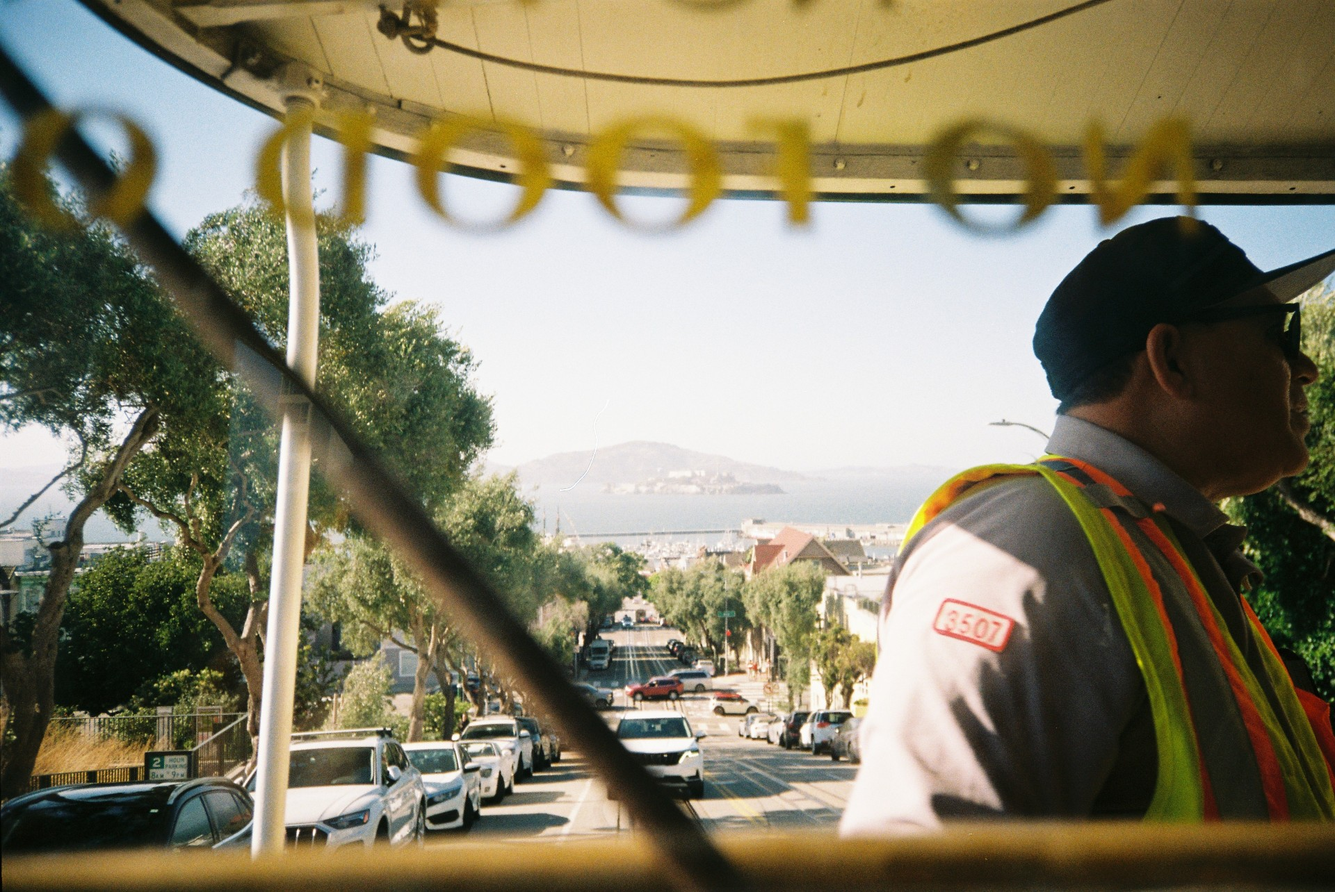
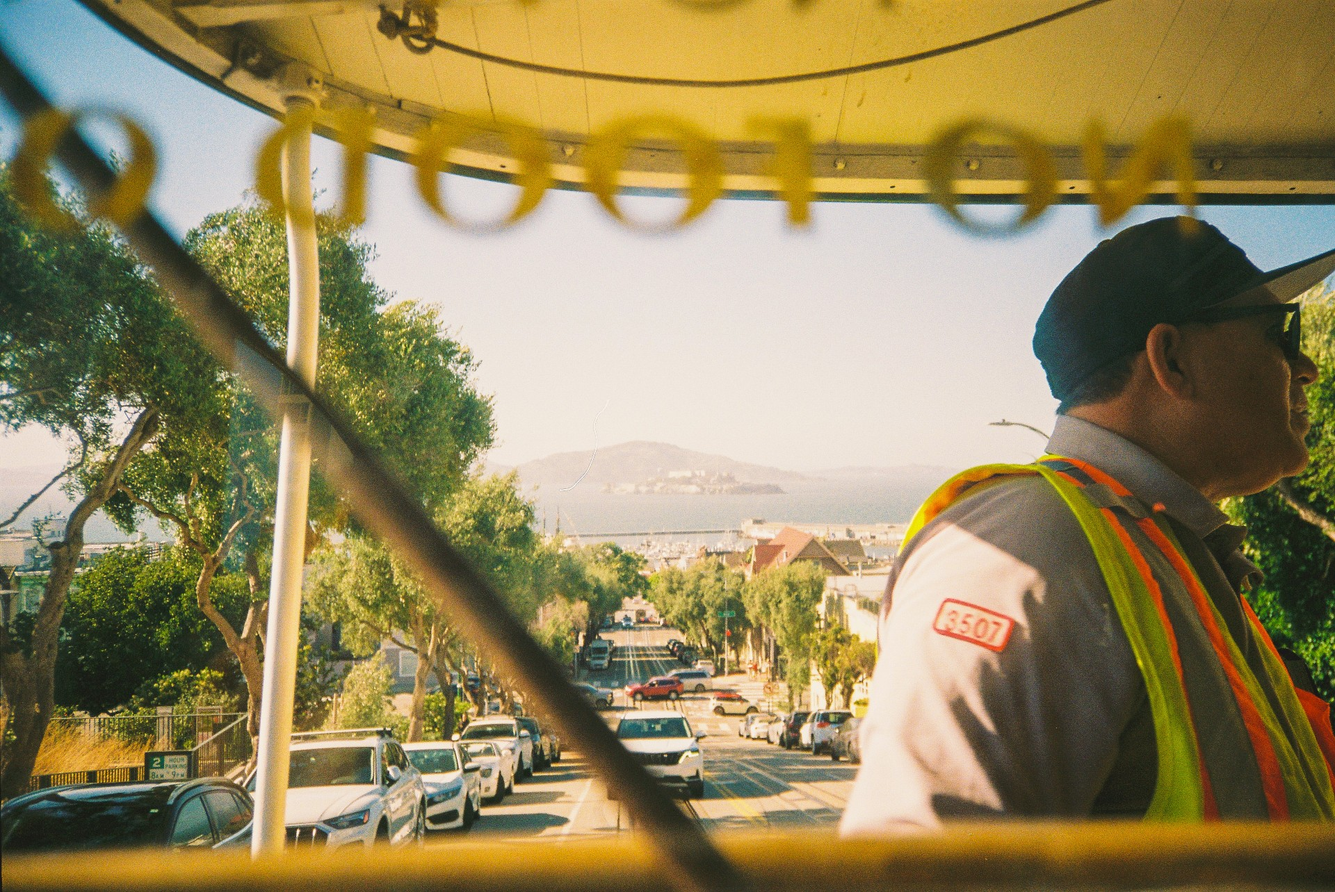
Push to Main
Push Pictures for 2nd post

diff --git a/projects/photography/city-street-walk/index.html b/projects/photography/city-street-walk/index.html
@@ -3,7 +3,7 @@
 <head>
   <meta charset="utf-8" />
   <meta name="viewport" content="width=device-width, initial-scale=1" />
-  <title>City Street Walk — Photography</title>
+  <title>The Golden City — Photography</title>
   <link href="https://cdn.jsdelivr.net/npm/bootstrap@5.3.0/dist/css/bootstrap.min.css" rel="stylesheet" />
   <link href="https://fonts.googleapis.com/css2?family=Syne:wght@800&family=Inter:wght@400;600;700;800&display=swap" rel="stylesheet" />
   <link rel="stylesheet" href="https://cdnjs.cloudflare.com/ajax/libs/font-awesome/6.4.0/css/all.min.css" />
@@ -13,22 +13,27 @@
 </head>
 <body>
   <header class="py-3 px-3 px-lg-4">
-    <div class="container d-flex justify-content-end align-items-center">
+    <div class="container d-flex justify-content-between align-items-center">
       <div class="text-light-custom fw-bold">Tristen</div>
+      <a href="#" class="btn btn-outline-light btn-sm d-flex align-items-center gap-2" target="_blank" rel="noopener">
+        <i class="fas fa-music"></i>
+        <span>Featured Track</span>
+      </a>
     </div>
   </header>
 
   <main class="container py-4 py-lg-5">
     <section class="bg-dark-custom rounded-4 p-3 p-lg-5 mb-4" data-aos="fade-up">
       <div class="d-flex justify-content-between align-items-center gap-3">
-        <h1 class="display-5 text-light-custom mb-2 mb-lg-0">City Street Walk</h1>
+        <h1 class="display-5 text-light-custom mb-2 mb-lg-0">The Golden City</h1>
         <a href="../../../portfolio.html" class="btn btn-back">Back to Portfolio</a>
       </div>
-      <p class="text-secondary mb-3">Photography • 2025 • Downtown</p>
+      <p class="text-secondary mb-3">Photography • 2025 • San Fransisco, CA</p>
       <div class="row g-3 text-light-custom">
         <div class="col-md-6">
           <p class="mb-1"><strong>Role:</strong> Photographer</p>
-          <p class="mb-1"><strong>Camera:</strong> 35mm • 35mm f/2 • HP5+ 400</p>
+          <p class="mb-1"><strong>Camera:</strong> Minolta Freedom 70EX </p>
+          <p class="mb-1"><strong>Film:</strong> Kodak Gold 200 </p>
         </div>
         <div class="col-md-6">
           <p class="mb-1"><strong>Summary:</strong> A candid street collection exploring light, movement, and everyday narratives.</p>
@@ -47,6 +52,36 @@
         </div>
         <div class="col-6 col-lg-4">
           <a href="../../../images/projects/city-street-walk/003.jpg" class="image-link d-block"><img src="../../../images/projects/city-street-walk/003.jpg" class="img-fluid rounded-4" alt="Street 3"></a>
+        </div>
+        <div class="col-6 col-lg-4">
+          <a href="../../../images/projects/city-street-walk/004.jpg" class="image-link d-block"><img src="../../../images/projects/city-street-walk/004.jpg" class="img-fluid rounded-4" alt="Street 4"></a>
+        </div>
+        <div class="col-6 col-lg-4">
+          <a href="../../../images/projects/city-street-walk/005.jpg" class="image-link d-block"><img src="../../../images/projects/city-street-walk/005.jpg" class="img-fluid rounded-4" alt="Street 5"></a>
+        </div>
+        <div class="col-6 col-lg-4">
+          <a href="../../../images/projects/city-street-walk/006.jpg" class="image-link d-block"><img src="../../../images/projects/city-street-walk/006.jpg" class="img-fluid rounded-4" alt="Street 6"></a>
+        </div>
+        <div class="col-6 col-lg-4">
+          <a href="../../../images/projects/city-street-walk/007.jpg" class="image-link d-block"><img src="../../../images/projects/city-street-walk/007.jpg" class="img-fluid rounded-4" alt="Street 7"></a>
+        </div>
+        <div class="col-6 col-lg-4">
+          <a href="../../../images/projects/city-street-walk/008.jpg" class="image-link d-block"><img src="../../../images/projects/city-street-walk/008.jpg" class="img-fluid rounded-4" alt="Street 8"></a>
+        </div>
+        <div class="col-6 col-lg-4">
+          <a href="../../../images/projects/city-street-walk/009.jpg" class="image-link d-block"><img src="../../../images/projects/city-street-walk/009.jpg" class="img-fluid rounded-4" alt="Street 9"></a>
+        </div>
+        <div class="col-6 col-lg-4">
+          <a href="../../../images/projects/city-street-walk/010.jpg" class="image-link d-block"><img src="../../../images/projects/city-street-walk/010.jpg" class="img-fluid rounded-4" alt="Street 10"></a>
+        </div>
+        <div class="col-6 col-lg-4">
+          <a href="../../../images/projects/city-street-walk/011.jpg" class="image-link d-block"><img src="../../../images/projects/city-street-walk/011.jpg" class="img-fluid rounded-4" alt="Street 11"></a>
+        </div>
+        <div class="col-6 col-lg-4">
+          <a href="../../../images/projects/city-street-walk/012.jpg" class="image-link d-block"><img src="../../../images/projects/city-street-walk/012.jpg" class="img-fluid rounded-4" alt="Street 12"></a>
+        </div>
+        <div class="col-6 col-lg-4">
+          <a href="../../../images/projects/city-street-walk/013.jpg" class="image-link d-block"><img src="../../../images/projects/city-street-walk/013.jpg" class="img-fluid rounded-4" alt="Street 13"></a>
         </div>
       </div>
     </section>

diff --git a/index.html b/index.html
@@ -786,10 +786,10 @@
           <div class="swiper-slide">
             <a class="card card-custom text-decoration-none" href="projects/photography/city-street-walk/index.html">
               <span class="chip">Photography</span>
-              <img src="images/portfolio-thumb-2.jpg" class="img-fluid" alt="City Street Walk" />
+              <img src="images/portfolio-thumb-2.jpg" class="img-fluid" alt="The Golden City" />
               <div class="card-overlay"><span>View project</span></div>
               <div class="card-body text-center">
-                <h3 class="subtitle text-dark mb-0">City Street Walk</h3>
+                <h3 class="subtitle text-dark mb-0">The Golden City</h3>
               </div>
             </a>
           </div>
